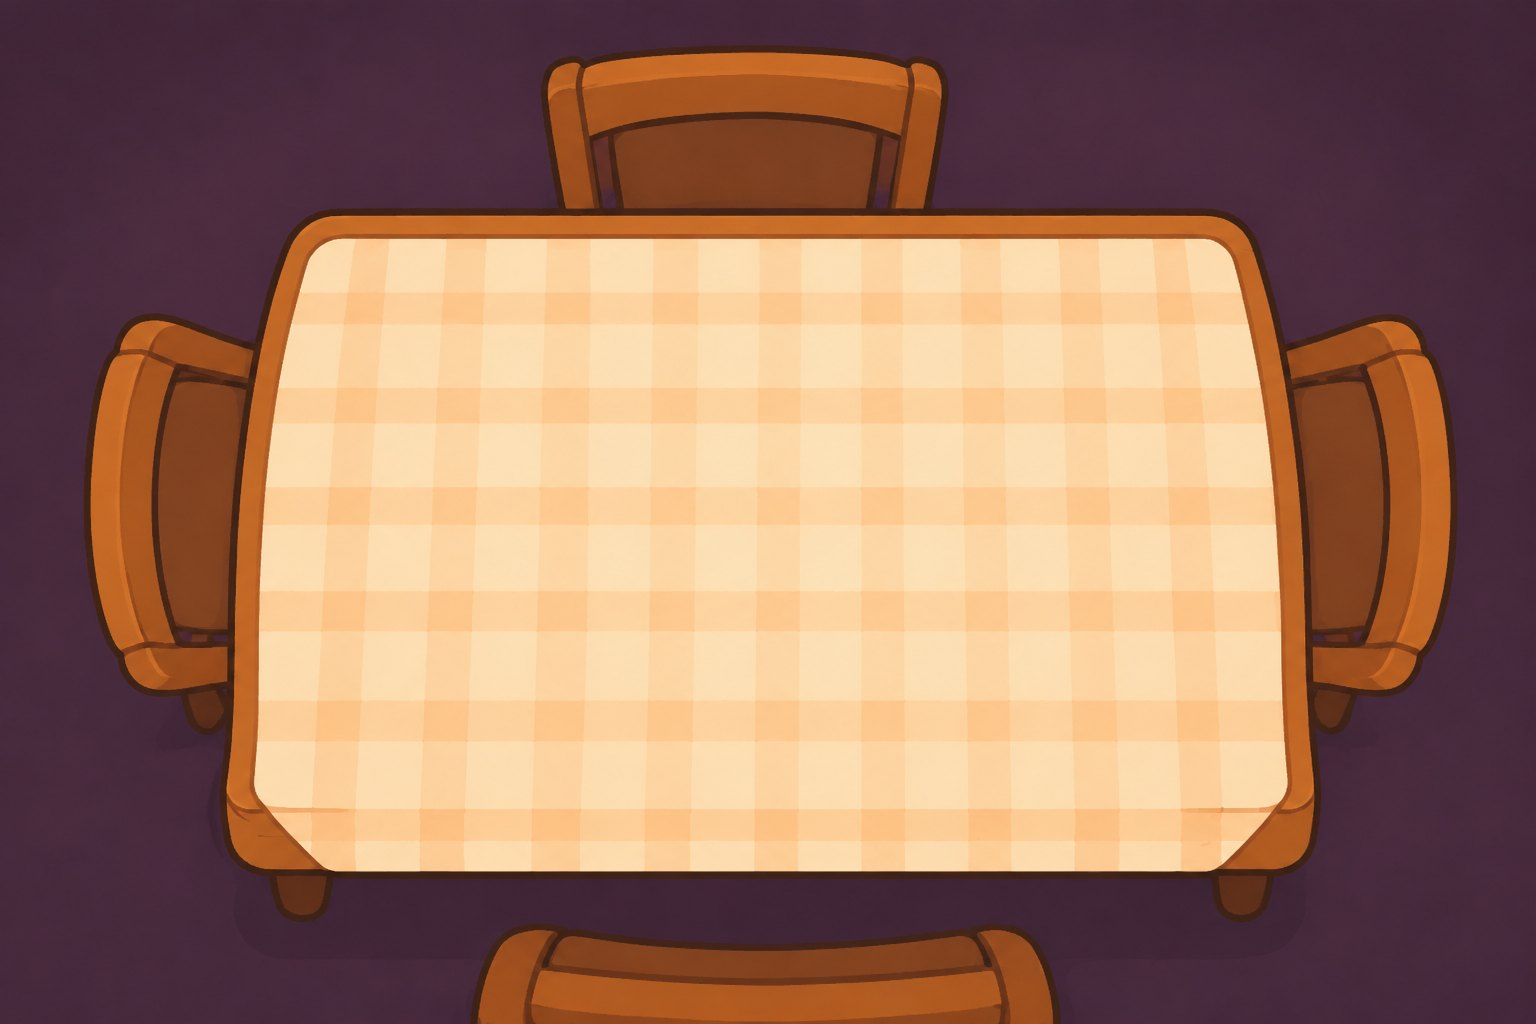
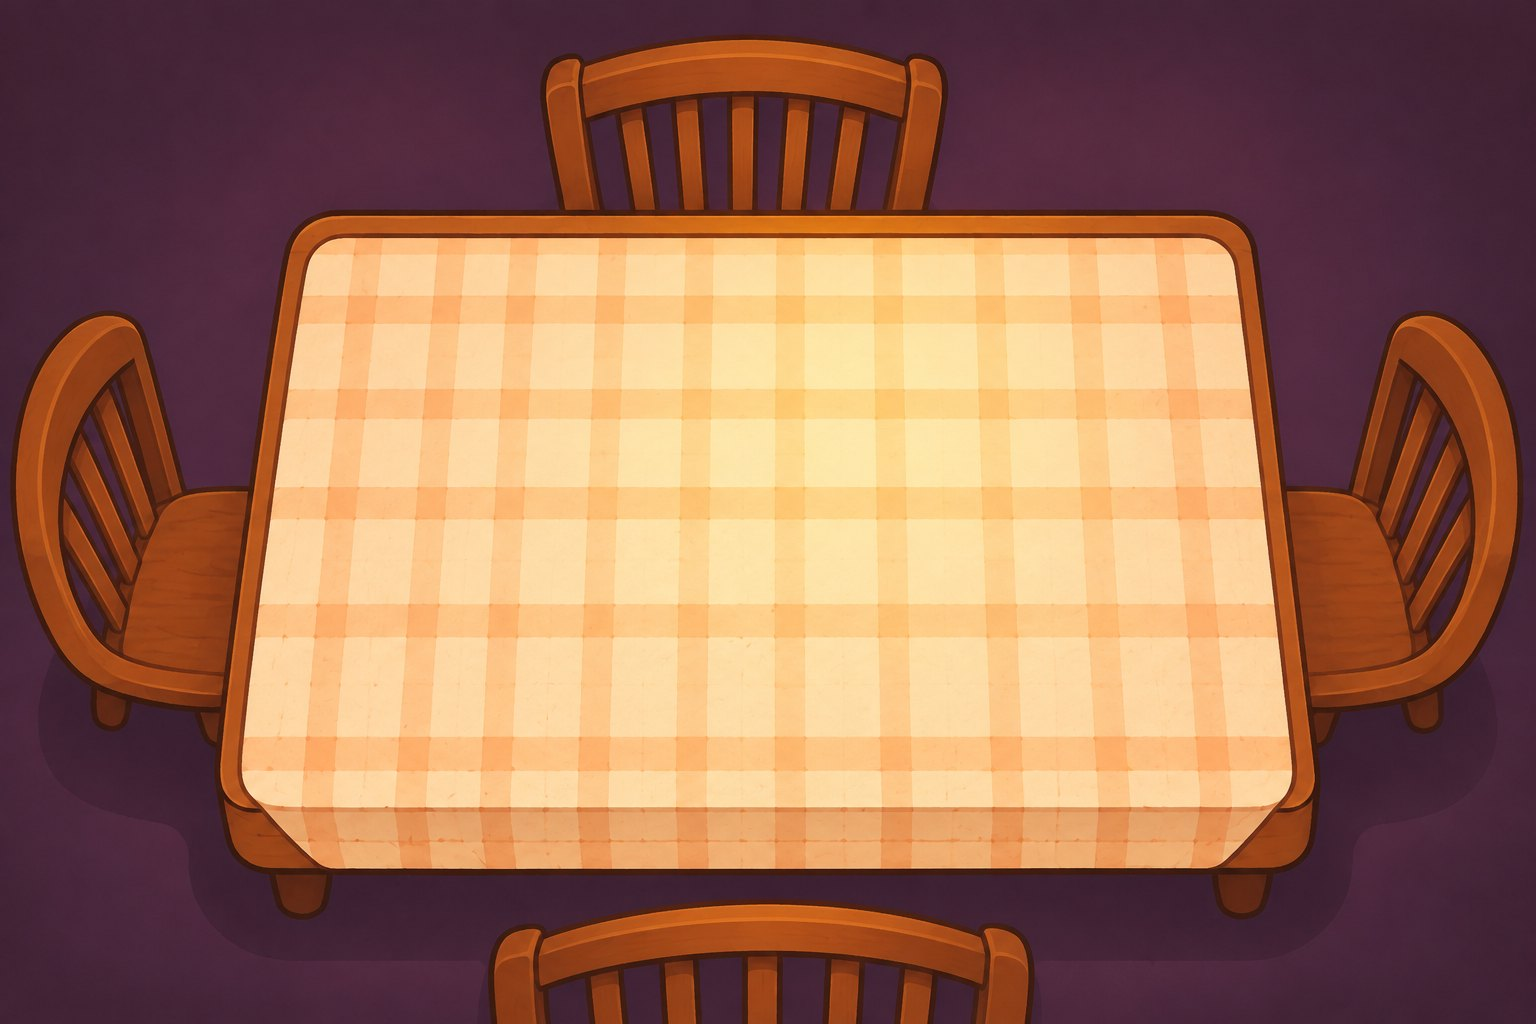
v4 background: layers19 plate from the F1 scene replaces F1b
- bg-table.jpg is now the layers19 background plate (empty table,
  four spindle chairs, warm light baked in); all 19 split layers
  archived under game/assets/source/layers19/
- ROOM re-measured off the new plate (tools/measure-bg.py):
  cloth x 247..1285 / y 238..867 on the plate -> table
  (206,172,865x524); seats on the new chairs - Mom (620,103),
  Grandpa (152,388), Timmy (1128,388), Dad (634,750), Dad now
  centred on his chair instead of floating right of it
- code light pool weakened 0.20 -> 0.07 (the plate's glow is
  baked; only the lamp-swing sway still needs it) and the code
  vignette dropped in the painted branch (corners already dark)
- gameplay untouched; playtest PASS, zero page errors

diff --git a/game/src/render.js b/game/src/render.js
@@ -140,21 +140,20 @@ export class Renderer {
 
   drawRoom(game, t) {
     const ctx = this.ctx;
-    // The painted room (F1b): floor, rug, chairs and the empty
-    // table itself are one picture now. The light pool and the
-    // vignette stay code — they move and darken with the game.
+    // The painted room (the layers19 plate): floor, chairs and
+    // the empty table are one picture, warm light and corner
+    // falloff baked in. The code light pool survives only as a
+    // whisper (0.07, was 0.20 over F1b) — just enough for the
+    // lamp-swing sway to read — and the code vignette is gone:
+    // the plate's corners already sit at ~lum 45 against the
+    // cloth's 220, so stacking it would double-darken.
     if (drawBgImage(ctx)) {
       const lamp = game.table.lamp;
       const sway = game.table.lampSwingT > 0 ? Math.sin(t * 9) * 16 * (game.table.lampSwingT / 3) : 0;
       const pool = ctx.createRadialGradient(lamp.x + sway, lamp.y, 60, lamp.x + sway, lamp.y, 520);
-      pool.addColorStop(0, 'rgba(255,205,110,0.20)');
+      pool.addColorStop(0, 'rgba(255,205,110,0.07)');
       pool.addColorStop(1, 'rgba(255,205,110,0)');
       ctx.fillStyle = pool;
-      ctx.fillRect(0, 0, VIEW.width, VIEW.height);
-      const vg = ctx.createRadialGradient(640, 400, 380, 640, 400, 900);
-      vg.addColorStop(0, 'rgba(11,6,18,0)');
-      vg.addColorStop(1, 'rgba(11,6,18,0.5)');
-      ctx.fillStyle = vg;
       ctx.fillRect(0, 0, VIEW.width, VIEW.height);
       return;
     }
@@ -207,7 +206,7 @@ export class Renderer {
     const painted = bgReady();
     if (!painted) {
       // Wooden rim, then the cream checked cloth (code fallback
-      // while the painting loads; F1b has both baked in).
+      // while the painting loads; the plate has both baked in).
       ctx.fillStyle = PALETTE.wood;
       roundRect(ctx, r.x - 14, r.y - 14, r.w + 28, r.h + 28, 18);
       ctx.fill();

diff --git a/game/src/config.js b/game/src/config.js
@@ -10,20 +10,33 @@ export const VIEW = {
   height: 800,
 };
 
-// The room geometry is measured off the painted background (F1b):
-// the cloth rectangle and the four chairs in the painting are
-// where the game now agrees they are (v3 art pass). BG transform
-// in sprites.js: scale 1280/1536, vertical centre.
+// The room geometry is measured off the painted background —
+// since the v4 pass that is the layers19 background plate 董
+// split out of the F1 scene painting (empty table, four chairs,
+// the warm light baked in). The cloth rectangle and the chairs
+// in the painting are where the game agrees they are. BG
+// transform in sprites.js: scale 1280/1536, vertical centre;
+// the numbers below are that transform applied to measurements
+// taken on the 1536x1024 plate (tools/measure-bg.py).
 export const ROOM = {
-  table: { x: 212, y: 172, w: 860, h: 526, r: 40 },
+  // Cloth bbox on the plate: x 247..1285, y 238..867.
+  table: { x: 206, y: 172, w: 865, h: 524, r: 40 },
+  // The plate's glow centres on the cloth at plate (771,536),
+  // which sits behind Mom's chair — so the code-drawn fixture
+  // keeps its F1b offset, hanging just right of her head, clear
+  // of it by the same margin as before.
   lamp: { x: 700, y: 88 },
   // Head centres on the painting's chairs: Mom north, Grandpa
   // west, Timmy east, Dad south (the order table.js seats them).
+  // Each is its chair's centre pulled toward the table: Mom
+  // plate (744,155), Grandpa (182,498), Timmy (1354,498), Dad
+  // (761,932) — Dad now sits centred on his chair (in the F1b
+  // framing he floated ~125px right of it).
   seats: [
-    { x: 620, y: 106 },
-    { x: 146, y: 389 },
-    { x: 1138, y: 389 },
-    { x: 760, y: 744 },
+    { x: 620, y: 103 },
+    { x: 152, y: 388 },
+    { x: 1128, y: 388 },
+    { x: 634, y: 750 },
   ],
 };
 

diff --git a/game/src/sprites.js b/game/src/sprites.js
@@ -1,9 +1,10 @@
 // sprites.js — the v3 art pass: the AI-painted sprite sheets
 // (S1-S5) cut into an atlas by tools/cut-sprites.py, plus the
-// painted empty-table background (F1b). Everything here is a
-// drop-in visual replacement: until an image has loaded, callers
-// fall back to the original code-drawn art, so the game never
-// waits on the network and never draws a hole.
+// painted room background (since v4: the layers19 plate split
+// out of the F1 scene). Everything here is a drop-in visual
+// replacement: until an image has loaded, callers fall back to
+// the original code-drawn art, so the game never waits on the
+// network and never draws a hole.
 
 import { ATLAS } from './atlas-data.js';
 
@@ -38,10 +39,10 @@ export function onSpritesReady(fn) {
   else readyCbs.push(fn);
 }
 
-// The background transform: F1b (1536x1024) scaled to the stage
-// width and centred vertically. ROOM.table in config.js is the
-// cloth rectangle this transform produces — measured off the
-// painting, not the other way round.
+// The background transform: the plate (1536x1024) scaled to the
+// stage width and centred vertically. ROOM.table in config.js
+// is the cloth rectangle this transform produces — measured off
+// the painting, not the other way round.
 export const BG = { scale: 1280 / 1536, dy: (800 - (1024 * 1280) / 1536) / 2 };
 
 export function drawBgImage(ctx) {

diff --git a/game/src/table.js b/game/src/table.js
@@ -85,7 +85,8 @@ export class Table {
     );
 
     // The family (spec 1.4). Big sticker heads at the table edges,
-    // seated on the painted chairs (ROOM.seats, measured off F1b).
+    // seated on the painted chairs (ROOM.seats, measured off the
+    // layers19 background plate).
     const cx = t.x + t.w / 2;
     const cy = t.y + t.h / 2;
     const seats = [
